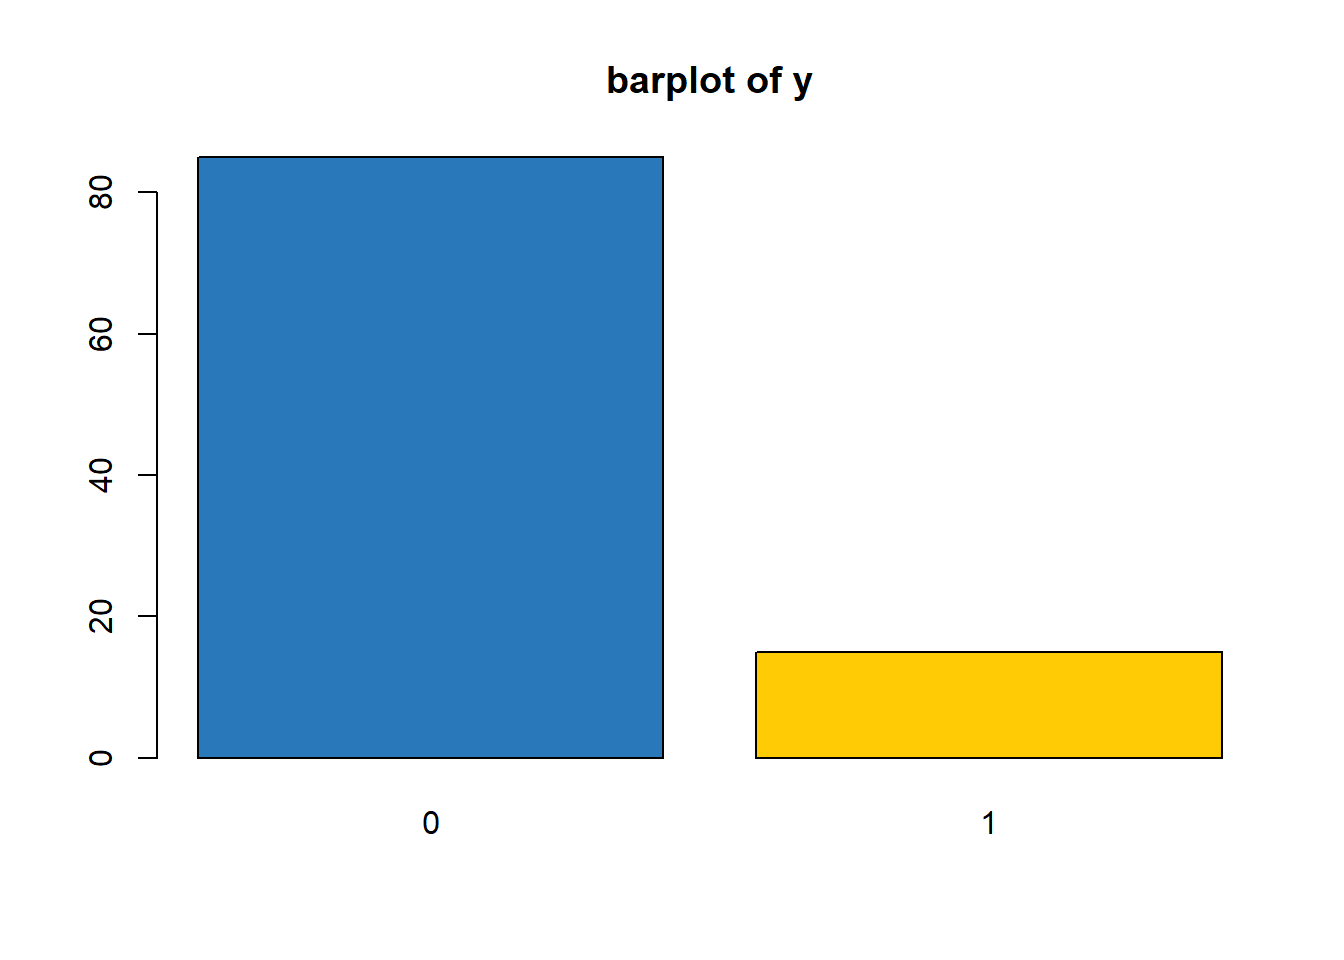
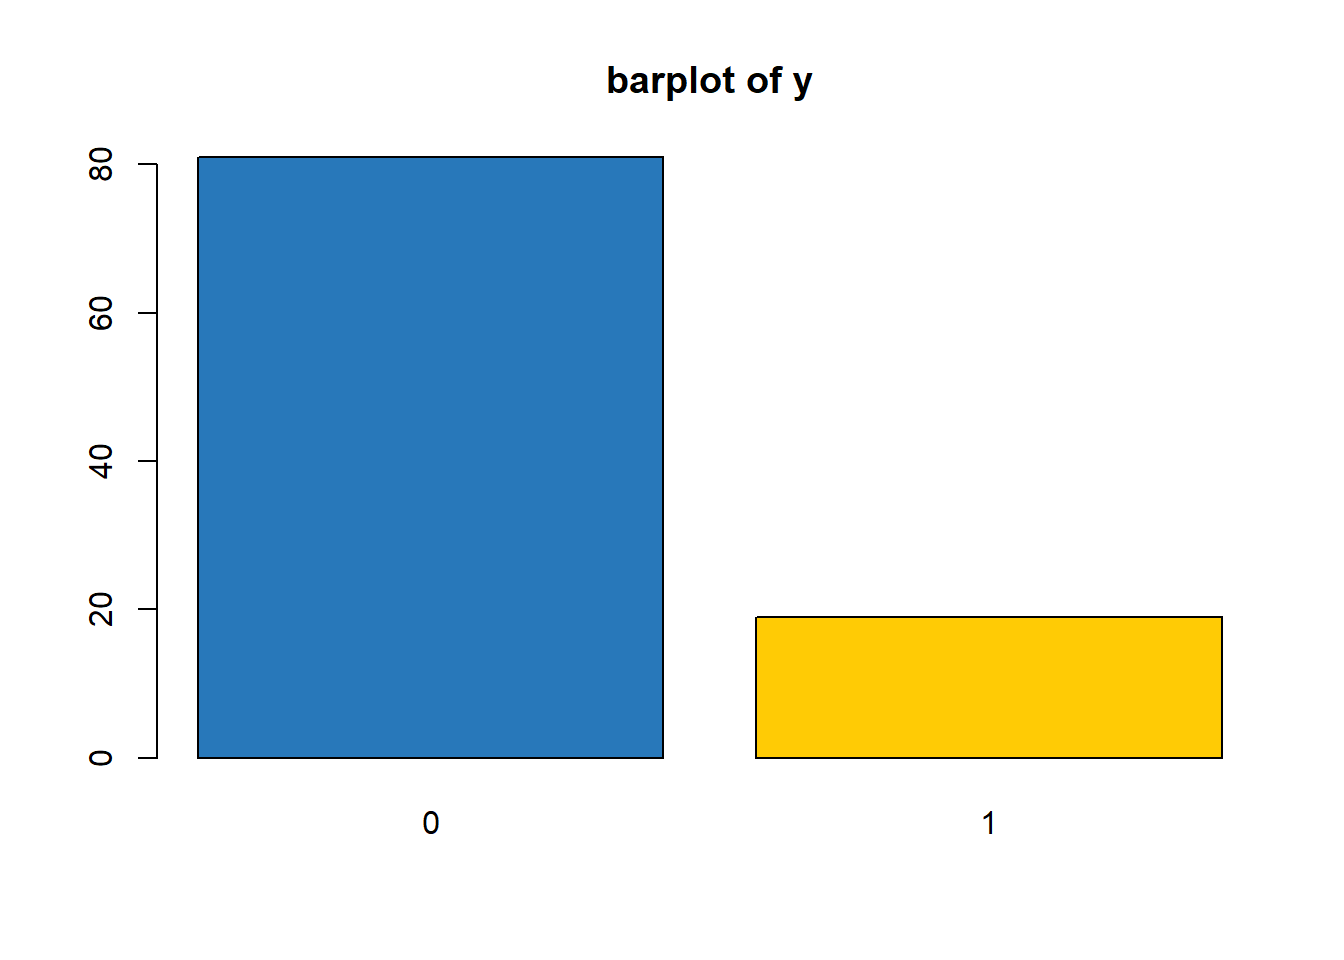
re-render

diff --git a/introduction-to-R/process-your-data.html b/introduction-to-R/process-your-data.html
@@ -24,7 +24,7 @@
 <meta name="author" content="Andy Grogan-Kaylor" />
 
 
-<meta name="date" content="2020-01-06" />
+<meta name="date" content="2020-03-02" />
 
   <meta name="viewport" content="width=device-width, initial-scale=1" />
   <meta name="apple-mobile-web-app-capable" content="yes" />
@@ -212,13 +212,13 @@ code span.wa { color: #008000; font-weight: bold; } /* Warning */
 </blockquote>
 <div class="sourceCode" id="cb19"><pre class="sourceCode r"><code class="sourceCode r"><a class="sourceLine" id="cb19-1" title="1"><span class="kw">summary</span>(x1) </a></code></pre></div>
 <pre><code>##    Min. 1st Qu.  Median    Mean 3rd Qu.    Max. 
-##   75.97   93.92  101.20  100.32  107.66  123.98</code></pre>
+##   78.14   92.14   99.07   99.53  105.71  124.85</code></pre>
 <blockquote>
 <p>x2 is a factor.</p>
 </blockquote>
 <div class="sourceCode" id="cb21"><pre class="sourceCode r"><code class="sourceCode r"><a class="sourceLine" id="cb21-1" title="1"><span class="kw">summary</span>(x2)</a></code></pre></div>
 <pre><code>##  0  1 
-## 72 28</code></pre>
+## 76 24</code></pre>
 <p>It can sometimes be useful to change variables from one type to another.</p>
 <div class="sourceCode" id="cb23"><pre class="sourceCode r"><code class="sourceCode r"><a class="sourceLine" id="cb23-1" title="1">mydata<span class="op">$</span>x &lt;-<span class="st"> </span><span class="kw">as.numeric</span>(mydata<span class="op">$</span>y)</a>
 <a class="sourceLine" id="cb23-2" title="2"></a>

diff --git a/introduction-to-R/comments-questions-and-corrections.html b/introduction-to-R/comments-questions-and-corrections.html
@@ -24,7 +24,7 @@
 <meta name="author" content="Andy Grogan-Kaylor" />
 
 
-<meta name="date" content="2020-01-06" />
+<meta name="date" content="2020-03-02" />
 
   <meta name="viewport" content="width=device-width, initial-scale=1" />
   <meta name="apple-mobile-web-app-capable" content="yes" />
@@ -184,7 +184,7 @@ code span.wa { color: #008000; font-weight: bold; } /* Warning */
 <div id="comments-questions-and-corrections" class="section level1">
 <h1><span class="header-section-number">15</span> Comments, Questions and Corrections</h1>
 <p>Comments, questions and corrections most welcome and may be sent to: Andrew Grogan-Kaylor @ <a href="http://www.umich.edu/~agrogan">http://www.umich.edu/~agrogan</a> &amp; @ <a href="agrogan@umich.edu">agrogan@umich.edu</a>.</p>
-<p>Last updated: <code>January 06 2020</code> at <code>10:22</code></p>
+<p>Last updated: <code>March 02 2020</code> at <code>09:36</code></p>
 </div>
 
 

diff --git a/introduction-to-R/background.html b/introduction-to-R/background.html
@@ -24,7 +24,7 @@
 <meta name="author" content="Andy Grogan-Kaylor" />
 
 
-<meta name="date" content="2020-01-06" />
+<meta name="date" content="2020-03-02" />
 
   <meta name="viewport" content="width=device-width, initial-scale=1" />
   <meta name="apple-mobile-web-app-capable" content="yes" />
@@ -185,7 +185,7 @@ code span.wa { color: #008000; font-weight: bold; } /* Warning */
 <h1 class="title">Introduction to R</h1>
 <h2 class="subtitle"><em>A Practically Focused Guide</em></h2>
 <p class="author"><em>Andy Grogan-Kaylor</em></p>
-<p class="date"><em>January 06, 2020</em></p>
+<p class="date"><em>March 02, 2020</em></p>
 </div>
 <div id="background" class="section level1">
 <h1><span class="header-section-number">1</span> Background</h1>

diff --git a/introduction-to-R/base-r-and-libraries.html b/introduction-to-R/base-r-and-libraries.html
@@ -24,7 +24,7 @@
 <meta name="author" content="Andy Grogan-Kaylor" />
 
 
-<meta name="date" content="2020-01-06" />
+<meta name="date" content="2020-03-02" />
 
   <meta name="viewport" content="width=device-width, initial-scale=1" />
   <meta name="apple-mobile-web-app-capable" content="yes" />

diff --git a/introduction-to-R/bivariate-statistics.html b/introduction-to-R/bivariate-statistics.html
@@ -24,7 +24,7 @@
 <meta name="author" content="Andy Grogan-Kaylor" />
 
 
-<meta name="date" content="2020-01-06" />
+<meta name="date" content="2020-03-02" />
 
   <meta name="viewport" content="width=device-width, initial-scale=1" />
   <meta name="apple-mobile-web-app-capable" content="yes" />

diff --git a/introduction-to-R/descriptive-statistics.html b/introduction-to-R/descriptive-statistics.html
@@ -24,7 +24,7 @@
 <meta name="author" content="Andy Grogan-Kaylor" />
 
 
-<meta name="date" content="2020-01-06" />
+<meta name="date" content="2020-03-02" />
 
   <meta name="viewport" content="width=device-width, initial-scale=1" />
   <meta name="apple-mobile-web-app-capable" content="yes" />

diff --git a/introduction-to-R/get-your-data.html b/introduction-to-R/get-your-data.html
@@ -24,7 +24,7 @@
 <meta name="author" content="Andy Grogan-Kaylor" />
 
 
-<meta name="date" content="2020-01-06" />
+<meta name="date" content="2020-03-02" />
 
   <meta name="viewport" content="width=device-width, initial-scale=1" />
   <meta name="apple-mobile-web-app-capable" content="yes" />

diff --git a/introduction-to-R/graphical-user-interface.html b/introduction-to-R/graphical-user-interface.html
@@ -24,7 +24,7 @@
 <meta name="author" content="Andy Grogan-Kaylor" />
 
 
-<meta name="date" content="2020-01-06" />
+<meta name="date" content="2020-03-02" />
 
   <meta name="viewport" content="width=device-width, initial-scale=1" />
   <meta name="apple-mobile-web-app-capable" content="yes" />

diff --git a/introduction-to-R/graphing.html b/introduction-to-R/graphing.html
@@ -24,7 +24,7 @@
 <meta name="author" content="Andy Grogan-Kaylor" />
 
 
-<meta name="date" content="2020-01-06" />
+<meta name="date" content="2020-03-02" />
 
   <meta name="viewport" content="width=device-width, initial-scale=1" />
   <meta name="apple-mobile-web-app-capable" content="yes" />

diff --git a/introduction-to-R/introduction.html b/introduction-to-R/introduction.html
@@ -24,7 +24,7 @@
 <meta name="author" content="Andy Grogan-Kaylor" />
 
 
-<meta name="date" content="2020-01-06" />
+<meta name="date" content="2020-03-02" />
 
   <meta name="viewport" content="width=device-width, initial-scale=1" />
   <meta name="apple-mobile-web-app-capable" content="yes" />

diff --git a/introduction-to-R/multivariate-statistics.html b/introduction-to-R/multivariate-statistics.html
@@ -24,7 +24,7 @@
 <meta name="author" content="Andy Grogan-Kaylor" />
 
 
-<meta name="date" content="2020-01-06" />
+<meta name="date" content="2020-03-02" />
 
   <meta name="viewport" content="width=device-width, initial-scale=1" />
   <meta name="apple-mobile-web-app-capable" content="yes" />

diff --git a/introduction-to-R/save-and-document-your-work.html b/introduction-to-R/save-and-document-your-work.html
@@ -24,7 +24,7 @@
 <meta name="author" content="Andy Grogan-Kaylor" />
 
 
-<meta name="date" content="2020-01-06" />
+<meta name="date" content="2020-03-02" />
 
   <meta name="viewport" content="width=device-width, initial-scale=1" />
   <meta name="apple-mobile-web-app-capable" content="yes" />
